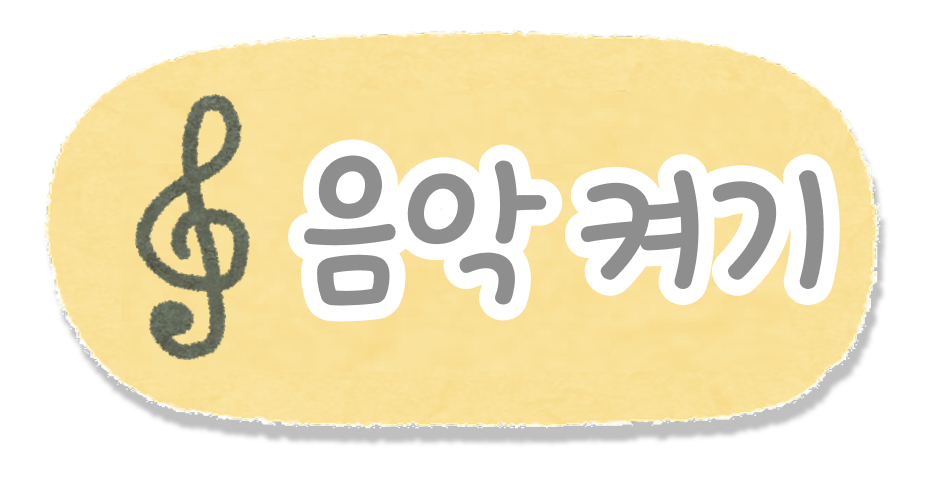
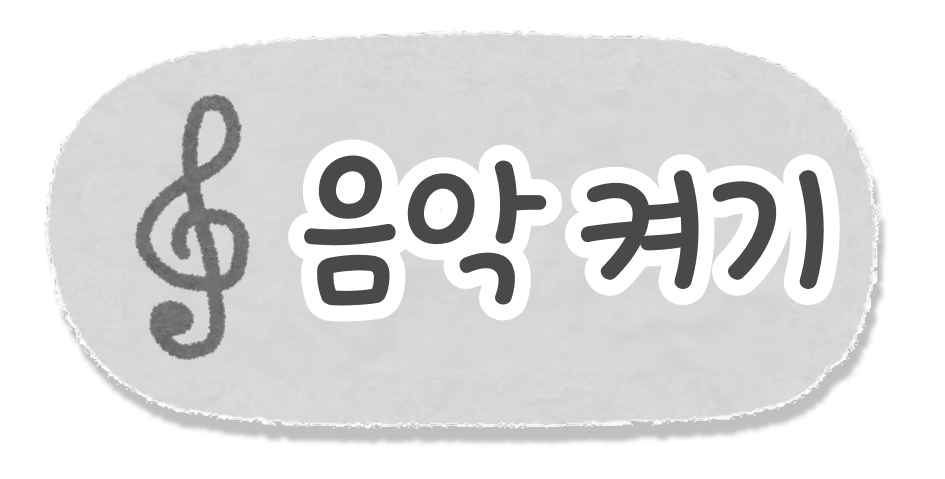
fix: 홈 화면 수정, 버튼 마진값 수정

diff --git a/frontend/src/pages/Home.tsx b/frontend/src/pages/Home.tsx
@@ -1,31 +1,45 @@
 import { useNavigate } from "react-router-dom";
+import { useState } from "react";  // useState import 추가
 
 import HomeBackground from "../assets/images/mainpage/homebackground.webp";
-import BackButton from "../components/commons/BackButton";
 import Book from "../assets/images/mainpage/book.webp";
 import MailBox from "../assets/images/mainpage/mailbox.webp";
 import Selectprofile from "../assets/images/mainpage/selectprofile.webp";
-// import MusicOff from "../assets/images/mainpage/musicoff.webp";
-// import MusicOn from "../assets/images/mainpage/musicon.webp";
+import MusicOff from "../assets/images/mainpage/musicoff.webp";
+import MusicOn from "../assets/images/mainpage/musicon.webp";
+import Bear from "../assets/images/settingpage/bear.webp";
 
 function Home() {
   const navigate = useNavigate();
+  const [isMusicOn, setIsMusicOn] = useState(false);  // 음악 상태 관리
 
   return (
     <div
       className="fixed inset-0 w-screen h-screen bg-cover bg-center"
       style={{ backgroundImage: `url(${HomeBackground})` }}
     >
+
+      {/* 프로필 */}
       {/* 프로필 선택 */}
-      <button 
-        onClick={() => navigate("/profile")} 
+      {/* <button
+        onClick={() => navigate("/profile")}
         className="absolute top-7 left-7"
       >
         <img src={Selectprofile} alt="프로필 선택" className="w-[15vw] max-w-[2000px] min-w-[80px]" />
-      </button>
+      </button> */}
+
+
+      <div className="absolute top-[5vh] left-[5vh] flex flex-col items-center">
+        <button onClick={() => navigate("/profile")}>
+          <img src={Bear} alt="프로필" className="w-[12vw] max-w-[2000px] min-w-[60px]" />
+        </button>
+        <p className="text-[7vh] font-bazzi text-outline-sm">정효원</p>
+      </div>
+
+
 
       {/* 중앙 이미지 버튼들 */}
-      <div className="flex justify-center items-center h-full gap-[9vw] mt-[15vh]">
+      <div className="flex justify-center items-center h-full gap-[7vw] mt-[15vh]">
         {/* 동화 문구, 이미지 */}
         <div className="mb-[20vh]">
           {/* 동화 */}
@@ -44,9 +58,22 @@ function Home() {
 
           {/* 우편함 이미지 */}
           <button onClick={() => navigate("/letterlist")}>
-            <img src={MailBox} alt="우편함" className="w-[30vw] max-w-[1200px] min-w-[100px]" />
+            <img src={MailBox} alt="우편함" className="w-[28vw] max-w-[1200px] min-w-[100px]" />
           </button>
         </div>
+
+        {/* 음악 토글 버튼 */}
+        <button
+          onClick={() => setIsMusicOn(!isMusicOn)}
+          className="fixed bottom-[5vh] right-[5vh]"
+        >
+          <img
+            src={isMusicOn ? MusicOn : MusicOff}
+            alt="음악 설정"
+            className="w-[16vw] max-w-[1000px] min-w-[70px]"
+          />
+        </button>
+
       </div>
     </div>
   );

diff --git a/frontend/src/pages/Profile.tsx b/frontend/src/pages/Profile.tsx
@@ -54,7 +54,7 @@ function Profile() {
         onClick={() => setShowSettings(true)}
         className="absolute top-7 right-7 z-10"
       >
-        <img src={settingsbtn} alt="설정" className="w-[9vw] max-w-[500px] min-w-[50px]" />
+        <img src={settingsbtn} alt="설정" className="w-[9vw] max-w-[500px] min-w-[50px] m-[3vh]" />
       </button>
 
       <div className="flex flex-col pt-16">
